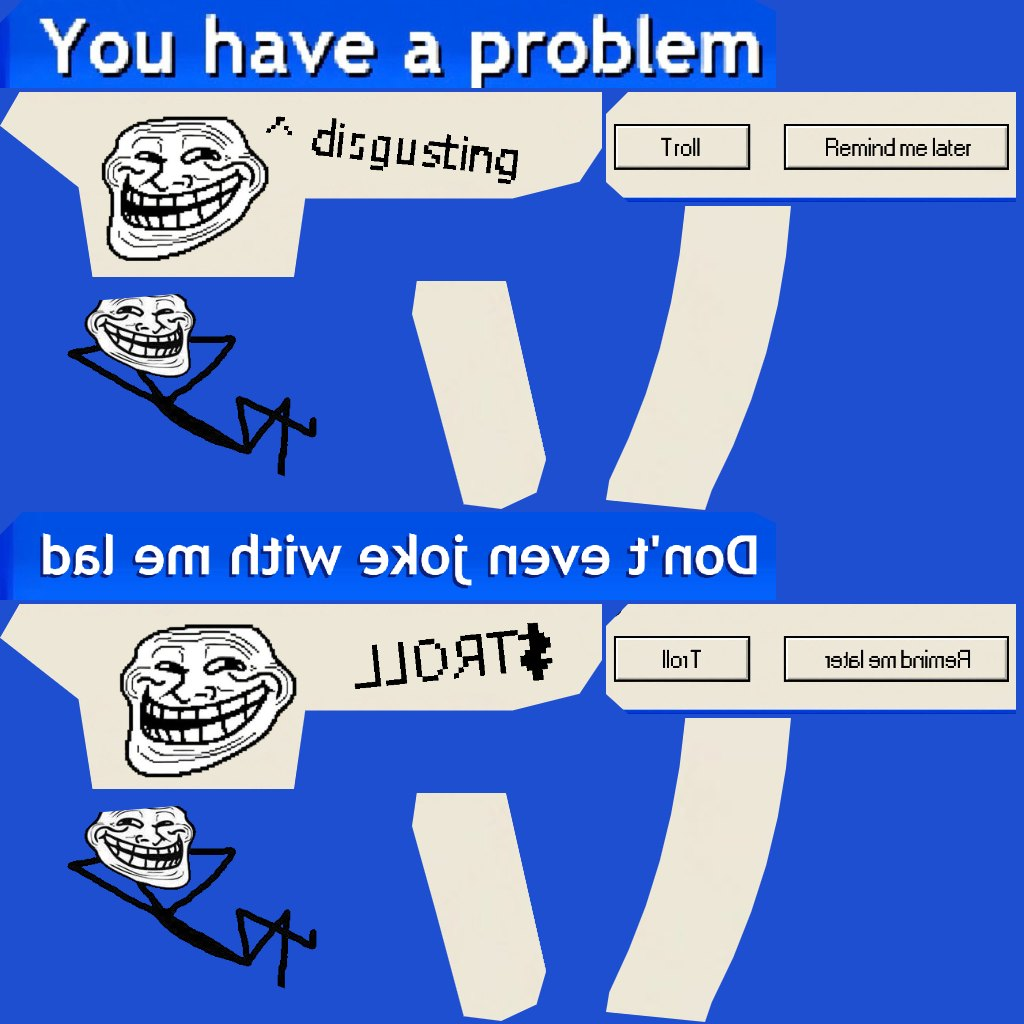
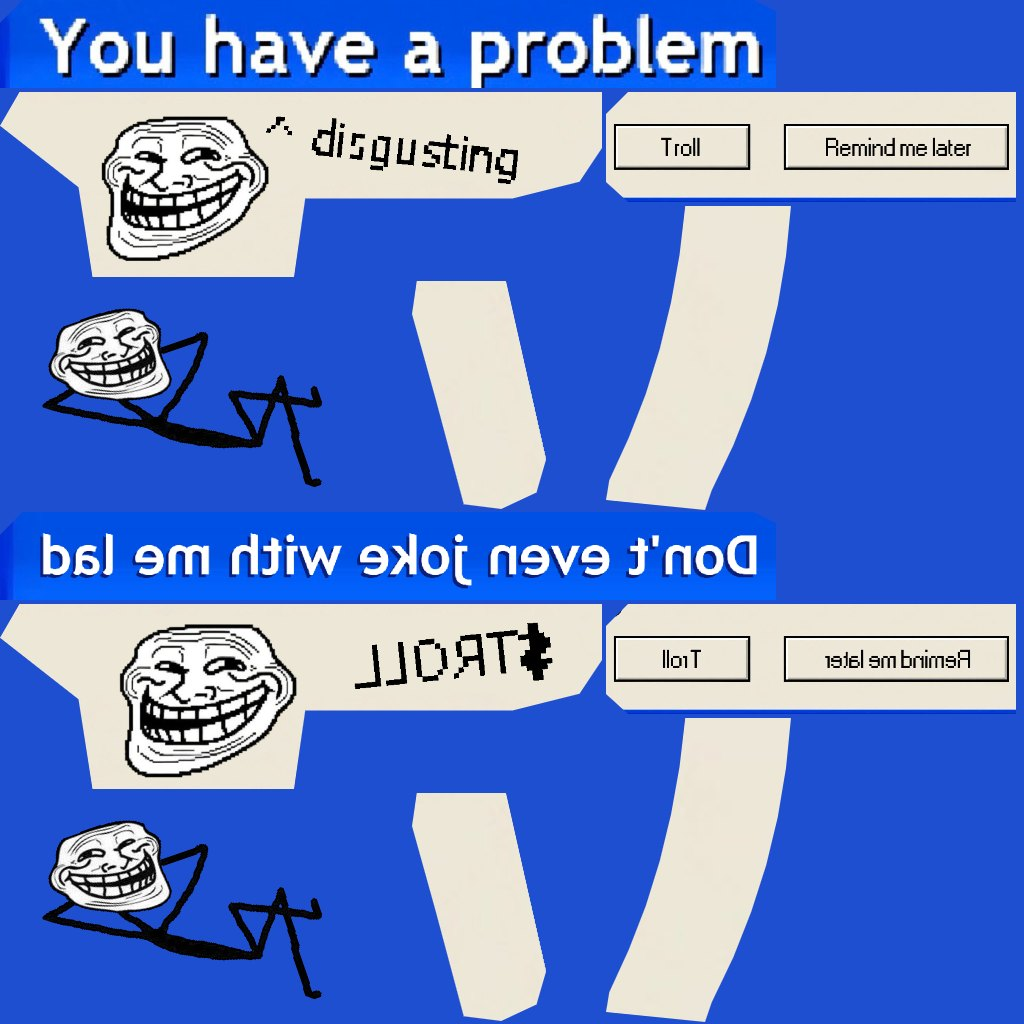
Skins: Problem's stock figure turned 19 degrees (user's edit), unlocked

Changed region(s): [[0.0312, 0.7812, 0.3125, 1.0], [0.0312, 0.2812, 0.3125, 0.5]]

diff --git a/assets/games/troll-ops/skins.js b/assets/games/troll-ops/skins.js
@@ -57,14 +57,13 @@ export const SKINS = [
   {
     id: "problem", name: "You Have a Problem", banner: "banner-16.jpg",
     blurb: "An error dialog that shoots back.",
-    final: true,
     palette: { trim: "#1f4fd1", ink: "#10131c", metal: 0xb9bcc2, accent: 0xd9492b },
     art: { stock: { file: "problem-stock.jpg", bg: "#1f4fd1", paper: [[0.47, 0.554], [0.247, 0.573], [0.605, 0.708], [0.697, 0.726]] } },
     crops: {
       upper: [0.235, 0.12, 0.47],
       lower: [0.31, 0.46, 0.34, 0, 1],
       handguard: [0.685, 0.81, 0.57],
-      stock: [0.5, 0.684, 1],
+      stock: [0.525, 0.674, 0.935, 19],
       grip: [0.567, 0.605, 0.029, 90],
       mag: [0.81, 0.618, 0.032, -90],
     },
